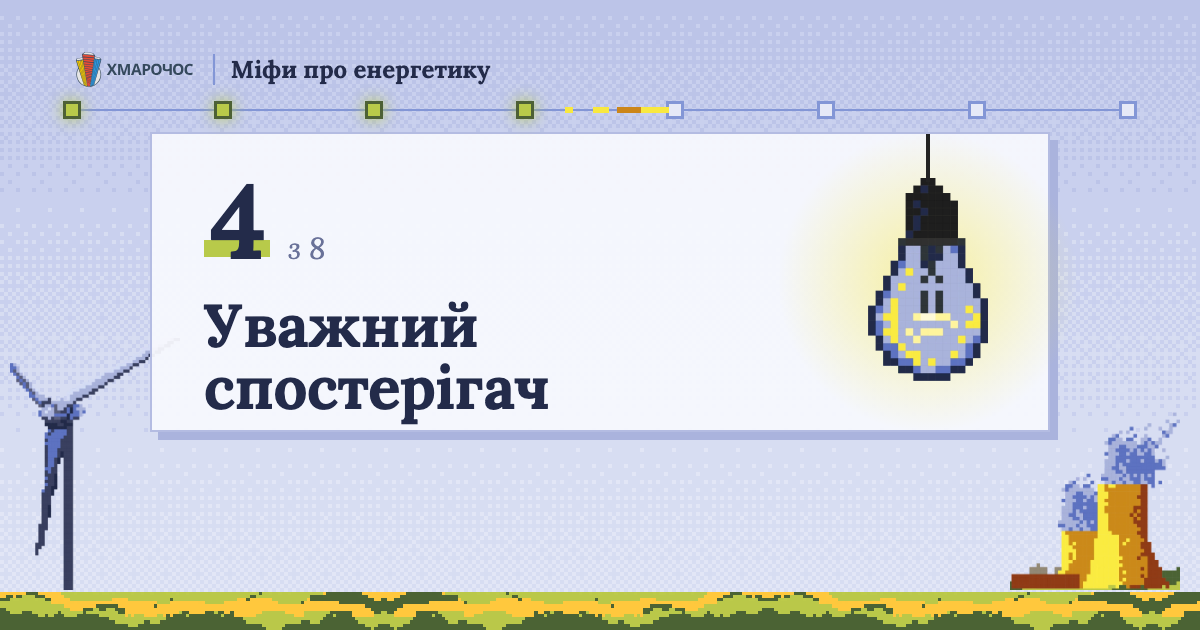
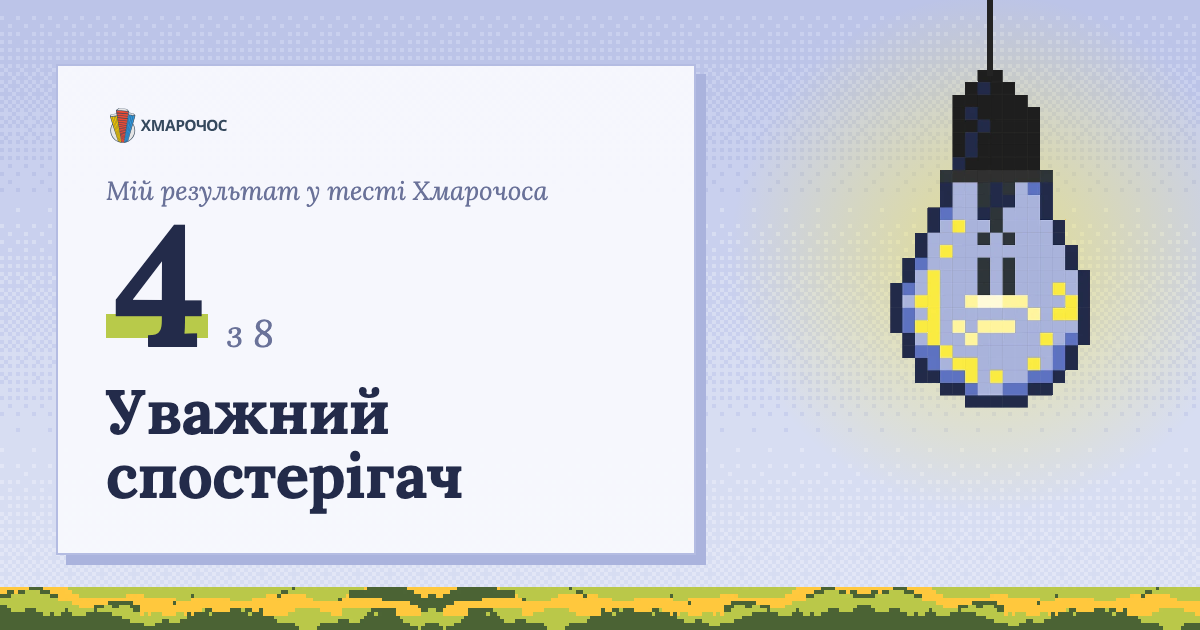
OG: велика обкладинка і великі бали з артом рівня; результат без відліку балів; плавний перехід до результату — мережа вмикається по черзі, плашка проявляється

diff --git a/og-src/og.html b/og-src/og.html
@@ -3,120 +3,99 @@
 <head>
 <meta charset="utf-8">
 <title>OG</title>
-<!-- OG 1200×630 у стилі «Мережа» (кольори ілюстрації). Рендерить scripts/render-og.mjs:
-     og.html → public/og-test.png (назва ліворуч, обкладинка праворуч);
-     og.html?l=<slug> → public/og-<slug>.png (бали, звання, лінія мережі; арт рівня праворуч з ореолом).
-     Арт — у рідній сітці 120×80 з public/art/px, збільшений без розмиття. -->
+<!-- OG 1200×630 у стилі «Мережа». Рендерить scripts/render-og.mjs:
+     og.html → public/og-test.png — велика обкладинка ілюстраторки й плашка з назвою;
+     og.html?s=<0..8> → public/og-s<N>.png — точні бали; ?l=<slug> → діапазон рівня (старі посилання).
+     Принцип: мало елементів і великі — прев'ю показують дрібно. Обкладинка — у рідній
+     сітці 120×80, збільшена рівно в 7 разів, без розмиття. -->
 <style>
-@font-face { font-family: "Open Sans"; src: url("../public/fonts/hm/open-sans-v29-latin_cyrillic-ext-500.woff2") format("woff2"); font-weight: 500; }
 @font-face { font-family: "Open Sans"; src: url("../public/fonts/hm/open-sans-v29-latin_cyrillic-ext-700.woff2") format("woff2"); font-weight: 700; }
 @font-face { font-family: "Lora"; src: url("../public/fonts/hm/lora-v24-latin_cyrillic-ext-700.woff2") format("woff2"); font-weight: 700; }
 @font-face { font-family: "Lora"; src: url("../public/fonts/hm/lora-v24-latin_cyrillic-ext-italic.woff2") format("woff2"); font-weight: 400; font-style: italic; }
-:root { --bg: #d7ddf2; --bg-2: #e6e9f7; --cloud: #aab3dd; --line: #b4bce2; --line-2: #8396d6; --text: #232b4a; --mute: #6a7299; --blue-d: #4458a8; --amber: #f8e840; --amber-2: #fcc63d; --orange: #cc8619; --night: #232b4a; }
+:root { --bg-2: #e6e9f7; --cloud: #aab3dd; --line: #b4bce2; --line-2: #8396d6; --text: #232b4a; --mute: #6a7299; --amber: #f8e840; --amber-2: #fcc63d; --grass: #b8ca4a; --forest: #4d6135; }
 * { box-sizing: border-box; }
 body { margin: 0; width: 1200px; height: 630px; overflow: hidden; position: relative; color: var(--text); font-family: "Open Sans", sans-serif;
   background: url("../public/art/px/sky.png") repeat-x left top / 32px 800px, #e2e6f6; image-rendering: pixelated; }
-.ground { position: absolute; left: 0; right: 0; bottom: 0; height: 64px; background: url("../public/art/px/hills-day.png") repeat-x left bottom / auto 100%; image-rendering: pixelated; }
-body.night .ground { background-image: url("../public/art/px/hills-night.png"); }
-.head { position: absolute; left: 72px; right: 72px; top: 46px; display: flex; align-items: center; justify-content: space-between; }
-.brand { display: flex; align-items: center; gap: 16px; font: 700 24px "Lora", serif; }
-.brand img { height: 46px; }
-.brand span { padding-left: 16px; border-left: 2px solid var(--line-2); }
-.cap { font-size: 18px; font-weight: 700; letter-spacing: .14em; text-transform: uppercase; color: var(--blue-d); }
-.cap::before { content: ""; display: inline-block; width: 12px; height: 12px; margin-right: 14px; background: var(--amber); box-shadow: 0 0 0 2px var(--orange); vertical-align: 1px; }
 .px { image-rendering: pixelated; display: block; }
+.ground { position: absolute; left: 0; right: 0; bottom: 0; height: 72px; background: url("../public/art/px/hills-day.png") repeat-x left bottom / auto 100%; image-rendering: pixelated; }
+body.night .ground { background-image: url("../public/art/px/hills-night.png"); }
+/* плашка: світла, тонка лінія, жорстка піксельна тінь — як на сайті */
+.card { position: absolute; background: rgba(247,248,253,.97); border: 2px solid var(--line); box-shadow: 10px 10px 0 var(--cloud); }
+.logo { height: 46px; display: block; }
 
-/* старт */
-.start .text { position: absolute; left: 72px; top: 150px; width: 500px; }
-.start h1 { margin: 16px 0 0; font: 700 70px/1.02 "Lora", serif; letter-spacing: -.015em; }
-.cta { display: inline-flex; align-items: center; gap: 22px; margin-top: 34px; height: 78px; padding: 0 32px 6px; background: var(--amber); color: var(--text); font-weight: 700; font-size: 26px; box-shadow: inset 0 0 0 3px var(--text), inset 0 -10px 0 0 var(--amber-2), inset 0 -10px 0 3px var(--text); }
-.plate { position: absolute; }
-.start .plate { right: 72px; top: 126px; width: 540px; }
-.start .plate img { width: 100%; }
+/* ——— старт: обкладинка велика праворуч, плашка з назвою заходить на неї ——— */
+.start .cover { position: absolute; right: 0; bottom: 0; width: 720px; height: 480px; }
+.start .card { left: 48px; top: 80px; width: 470px; padding: 36px 40px 42px; }
+.start h1 { margin: 26px 0 0; font: 700 60px/1.03 "Lora", serif; letter-spacing: -.015em; }
+.cta { display: inline-flex; align-items: center; gap: 22px; margin-top: 30px; height: 76px; padding: 0 30px 6px; background: var(--amber); font-weight: 700; font-size: 27px;
+  box-shadow: inset 0 0 0 3px var(--text), inset 0 -10px 0 0 var(--amber-2), inset 0 -10px 0 3px var(--text); }
 
-/* лінія мережі */
-.grid { position: absolute; left: 72px; right: 72px; top: 100px; height: 20px; }
-.grid::before { content: ""; position: absolute; left: 0; right: 0; top: 9px; height: 2px; background: var(--line-2); }
-.grid i { position: absolute; top: 1px; width: 18px; height: 18px; transform: translateX(-50%); background: var(--bg-2); border: 3px solid var(--line-2); }
-.grid i.on { background: #b8ca4a; border-color: #4d6135; box-shadow: 0 0 16px rgba(184,202,74,.9); }
-.grid .pulse { position: absolute; top: 7px; width: 120px; height: 6px; background: linear-gradient(90deg, transparent 0 16px, var(--amber) 16px 24px, transparent 24px 44px, var(--amber) 44px 60px, transparent 60px 68px, var(--orange) 68px 92px, var(--amber) 92px 120px); }
-
-/* рівень: плашка як на сайті — світла, тонка лінія, піксельна тінь; арт усередині праворуч */
+/* ——— результат: великі бали й звання на плашці, праворуч великий арт рівня ——— */
 .lvl { display: none; }
-.card { position: absolute; left: 150px; right: 150px; top: 132px; height: 300px; background: rgba(247,248,253,.95); border: 2px solid var(--line); box-shadow: 8px 8px 0 var(--cloud); }
-.card .text { position: absolute; left: 52px; top: 40px; width: 560px; }
-.card .art { position: absolute; right: 60px; top: 0; bottom: 0; display: grid; place-items: center; }
-.card .art img { position: relative; image-rendering: auto; }
-.card .art::before { content: ""; position: absolute; left: 50%; top: 50%; width: 300px; height: 300px; transform: translate(-50%, -50%); background: radial-gradient(closest-side, rgba(248,232,64,.5), rgba(248,232,64,0)); }
-.card .art.warm::before { background: radial-gradient(closest-side, rgba(252,150,50,.45), rgba(252,150,50,0)); }
-/* лампочка висить на шнурі від верхнього краю плашки */
-.card .art.hang { place-items: start center; padding-top: 44px; }
-.card .art.hang::after { content: ""; position: absolute; left: 50%; top: 0; width: 4px; height: 48px; transform: translateX(-50%); background: #232323; }
-.mill, .plant { position: absolute; bottom: 40px; image-rendering: auto; }
-.mill { left: 10px; width: 170px; }
-.plant { right: 20px; width: 170px; }
 body.level .start { display: none; }
 body.level .lvl { display: block; }
-
-.score { display: flex; align-items: baseline; gap: 18px; }
-.score b { font: 700 104px/.9 "Lora", serif; color: var(--text); letter-spacing: -.03em; padding: 0 6px; background: linear-gradient(transparent 70%, #b8ca4a 70% 88%, transparent 88%); }
-.score span { font: italic 400 30px "Lora", serif; color: var(--mute); }
-.lvl h1 { margin: 26px 0 0; font: 700 60px/1.04 "Lora", serif; letter-spacing: -.01em; }
-
-
-
-
+.lvl .card { left: 56px; top: 64px; width: 640px; padding: 36px 48px 44px; }
+.lvl .who { margin: 26px 0 0; font: italic 400 26px/1.3 "Lora", serif; color: var(--mute); }
+.score { display: flex; align-items: baseline; gap: 18px; margin-top: 4px; }
+.score b { font: 700 170px/.86 "Lora", serif; letter-spacing: -.04em; padding: 0 8px; background: linear-gradient(transparent 70%, var(--grass) 70% 86%, transparent 86%); }
+.score span { font: italic 400 38px "Lora", serif; color: var(--mute); }
+.lvl h1 { margin: 22px 0 0; font: 700 62px/1.04 "Lora", serif; letter-spacing: -.01em; }
+.art { position: absolute; display: grid; place-items: center; }
+.art img { position: relative; display: block; }
+.art::before { content: ""; position: absolute; left: 50%; top: 50%; width: 520px; height: 520px; transform: translate(-50%, -50%); background: radial-gradient(closest-side, rgba(248,232,64,.55), rgba(248,232,64,0)); }
+.art.warm::before { background: radial-gradient(closest-side, rgba(252,150,50,.5), rgba(252,150,50,0)); }
+/* лампочка висить на шнурі від верхнього краю картинки */
+.art.bulb { right: 110px; top: 0; padding-top: 70px; }
+.art.bulb::after { content: ""; position: absolute; left: 50%; top: 0; width: 6px; height: 76px; transform: translateX(-50%); background: #232323; }
+.art.bulb::before { top: 62%; }
+.art.candle { right: 150px; bottom: 50px; }
+.art.battery { right: 40px; bottom: 120px; }
 </style>
 </head>
 <body>
-  <div class="head"><span class="brand"><img src="../public/hmarochos_logo_new.svg" alt=""><span>Міфи про енергетику</span></span></div>
-
   <div class="start">
-    <div class="text">
+    <img class="px cover" src="../public/art/px/cover.png" alt="">
+    <div class="card">
+      <img class="logo" src="../public/hmarochos_logo_new.svg" alt="">
       <h1>Міфи про українську енергетику</h1>
-      <div class="cta">Пройти тест <svg viewBox="0 0 22 10" width="34" height="16" fill="none" stroke="currentColor" stroke-width="1.6"><path d="M0 5h20M16 1l4 4-4 4"/></svg></div>
+      <div class="cta">Пройти тест <svg viewBox="0 0 9 8" width="26" height="23" shape-rendering="crispEdges"><path d="M5 0h1v1H5zM5 1h2v1H5zM5 2h3v1H5zM0 3h9v2H0zM5 5h3v1H5zM5 6h2v1H5zM5 7h1v1H5z" fill="currentColor"/></svg></div>
     </div>
-    <div class="plate"><img class="px" src="../public/art/px/cover.png" alt=""></div>
   </div>
 
   <div class="lvl">
-    <img class="mill" src="../public/art/windmill.webp" alt="">
-    <img class="plant" src="../public/art/plant.webp" alt="">
+    <div class="ground"></div>
+    <div class="art" id="art"><img id="artImg" alt=""></div>
     <div class="card">
-      <div class="text">
-        <div class="score"><b id="range"></b><span>з 8</span></div>
-        <h1 id="title"></h1>
-      </div>
-      <div class="art" id="plate"><img id="art" alt=""></div>
+      <img class="logo" src="../public/hmarochos_logo_new.svg" alt="">
+      <p class="who">Мій результат у тесті Хмарочоса</p>
+      <div class="score"><b id="score"></b><span>з 8</span></div>
+      <h1 id="title"></h1>
     </div>
   </div>
 
-  <div class="grid" id="grid"></div>
-  <div class="ground"></div>
-
 <script>
   const LEVELS = {
-    hostage: { title: "Заручник інфопростору", range: "0–3", max: 3, art: "candle", w: 100, warm: true },
-    observer: { title: "Уважний спостерігач", range: "4–6", max: 6, art: "bulb-lamp", w: 120 },
-    analyst: { title: "Енергетичний аналітик", range: "7–8", max: 8, art: "battery", w: 260 },
+    hostage: { title: "Заручник інфопростору", range: "0–3", max: 3, art: "candle", w: 170, warm: true },
+    observer: { title: "Уважний спостерігач", range: "4–6", max: 6, art: "bulb", w: 200 },
+    analyst: { title: "Енергетичний аналітик", range: "7–8", max: 8, art: "battery", w: 420 },
   };
-  // ?s=<бали> — точна кількість балів; ?l=<рівень> — діапазон рівня
+  // ?s=<бали> — точна кількість; ?l=<рівень> — діапазон рівня
   const qs = new URLSearchParams(location.search);
   const sc = qs.has("s") ? Number(qs.get("s")) : null;
   const l = sc !== null ? Object.values(LEVELS).find((v) => sc <= v.max) : LEVELS[qs.get("l")];
-  const lit = l ? (sc ?? l.max) : 0;
-  document.getElementById("grid").innerHTML =
-    Array.from({ length: 8 }, (_, i) => `<i class="${i < lit ? "on" : ""}" style="left:${(i / 7) * 100}%"></i>`).join("") +
-    `<span class="pulse" style="left:${l ? Math.min(85, (lit / 7) * 100) - 12 : 30}%"></span>`;
   if (l) {
     document.body.classList.add("level");
+    if (l.warm) document.body.classList.add("night");
     document.getElementById("title").textContent = l.title;
-    document.getElementById("range").textContent = sc !== null ? String(sc) : l.range;
-    if (l.art === "bulb-lamp") document.getElementById("plate").classList.add("hang");
-    const a = document.getElementById("art");
-    a.src = `../public/art/${l.art}.webp`;
-    a.style.width = l.w + "px";
-    if (l.warm) { document.getElementById("plate").classList.add("warm"); document.body.classList.add("night"); document.querySelectorAll(".mill,.plant").forEach((e) => (e.style.filter = "brightness(.55) saturate(.7)")); }
+    document.getElementById("score").textContent = sc !== null ? String(sc) : l.range;
+    const art = document.getElementById("art");
+    art.classList.add(l.art);
+    if (l.warm) art.classList.add("warm");
+    const img = document.getElementById("artImg");
+    img.src = `../public/art/${l.art === "bulb" ? "bulb-lamp" : l.art}.webp`;
+    img.style.width = l.w + "px";
+  } else {
+    document.querySelector(".lvl").remove();
   }
 </script>
 </body>

diff --git a/app/skins/grid/GridSkin.tsx b/app/skins/grid/GridSkin.tsx
@@ -89,10 +89,11 @@ function Head() {
 }
 
 /** Лінія мережі з восьми підстанцій. history — пройдені твердження; now — поточне. */
-function Grid({ history, now, fresh }: { history: boolean[]; now?: number; fresh?: boolean }) {
+function Grid({ history, now, fresh, boot }: { history: boolean[]; now?: number; fresh?: boolean; boot?: boolean }) {
   const on = history.filter(Boolean).length;
   return (
-    <div className="grid" role="img" aria-label={`Правильних відповідей: ${on} з ${TOTAL}`}>
+    // boot — на результаті мережа «запускається»: відрізки й підстанції вмикаються по черзі зліва направо
+    <div className={`grid${boot ? " boot" : ""}`} role="img" aria-label={`Правильних відповідей: ${on} з ${TOTAL}`}>
       <span className="line" aria-hidden>
         <span className="pulse" />
       </span>
@@ -102,14 +103,14 @@ function Grid({ history, now, fresh }: { history: boolean[]; now?: number; fresh
           <span
             key={`s${i}`}
             className={`seg ${h ? "on" : "miss"}${i === history.length - 1 && fresh ? " fresh" : ""}`}
-            style={{ left: `${((i - 1) / (TOTAL - 1)) * 100}%`, width: `${100 / (TOTAL - 1)}%` }}
+            style={{ left: `${((i - 1) / (TOTAL - 1)) * 100}%`, width: `${100 / (TOTAL - 1)}%`, ["--i" as string]: i }}
             aria-hidden
           />
         ),
       )}
       {Array.from({ length: TOTAL }, (_, i) => {
         const st = i < history.length ? (history[i] ? "on" : "miss") : i === now ? "now" : "";
-        return <i key={i} className={`node ${st}${i === history.length - 1 && fresh ? " fresh" : ""}`} style={{ left: `${(i / (TOTAL - 1)) * 100}%` }} />;
+        return <i key={i} className={`node ${st}${i === history.length - 1 && fresh ? " fresh" : ""}`} style={{ left: `${(i / (TOTAL - 1)) * 100}%`, ["--i" as string]: i }} />;
       })}
     </div>
   );
@@ -347,25 +348,6 @@ function Sheet({ quiz }: { quiz: QuizApi }) {
 
 // ——— результат ———
 
-function CountUp({ to }: { to: number }) {
-  const [n, setN] = useState(0);
-  useEffect(() => {
-    if (window.matchMedia("(prefers-reduced-motion: reduce)").matches || to === 0) {
-      setN(to);
-      return;
-    }
-    const t0 = performance.now();
-    let raf = 0;
-    const step = (now: number) => {
-      const p = Math.min(1, (now - t0) / 900);
-      setN(Math.round(to * (1 - Math.pow(1 - p, 3))));
-      if (p < 1) raf = requestAnimationFrame(step);
-    };
-    raf = requestAnimationFrame(step);
-    return () => cancelAnimationFrame(raf);
-  }, [to]);
-  return <>{n}</>;
-}
 
 function ResultBody({ level, history, fixed, onRestart }: { level: Level; history?: boolean[]; fixed?: number; onRestart?: () => void }) {
   const score = history ? history.filter(Boolean).length : fixed;
@@ -375,7 +357,7 @@ function ResultBody({ level, history, fixed, onRestart }: { level: Level; histor
     <main className="nm result">
       <div className="col">
         <Head />
-        <Grid history={shown} />
+        <Grid history={shown} boot />
         <div className="rgrid">
           <div className="rmain">
             <div className="rtop">
@@ -383,9 +365,7 @@ function ResultBody({ level, history, fixed, onRestart }: { level: Level; histor
             {!history && <p className="shared">{`${UI.sharedResult} «${intro.title}»`}</p>}
             {score !== undefined ? (
               <p className="score">
-                <b>
-                  <CountUp to={score} />
-                </b>
+                <b>{score}</b>
                 <span>
                   {UI.of(TOTAL)} {UI.live}
                 </span>

diff --git a/app/skins/grid/grid.css b/app/skins/grid/grid.css
@@ -1499,3 +1499,49 @@ html:has(.nm) {
   font: italic 400 16px/1.4 "Lora", serif;
   color: var(--mute);
 }
+
+/* ——— перехід до результату ———
+   мережа запускається: підстанції й відрізки між ними вмикаються по черзі зліва направо
+   (крок 90 мс), а плашка результату тим часом м'яко проявляється й ледь збільшується */
+
+.nm .grid.boot .seg {
+  animation: nmFlow 0.18s var(--ease-run) calc(var(--i) * 90ms - 90ms) both;
+}
+
+.nm .grid.boot .seg.miss {
+  animation: nmBootDim 0.2s ease-out calc(var(--i) * 90ms) both;
+}
+
+.nm .grid.boot .node.on,
+.nm .grid.boot .node.miss {
+  animation: nmBootNode 0.4s ease-out calc(var(--i) * 90ms) both;
+}
+
+@keyframes nmBootNode {
+  0% {
+    transform: translateX(-50%) scale(0.5);
+  }
+  50% {
+    transform: translateX(-50%) scale(1.35);
+  }
+  100% {
+    transform: translateX(-50%) scale(1);
+  }
+}
+
+@keyframes nmBootDim {
+  from {
+    opacity: 0;
+  }
+}
+
+.nm.result .rmain {
+  animation: nmCardIn 0.6s cubic-bezier(0.2, 0.7, 0.2, 1) 0.1s both;
+}
+
+@keyframes nmCardIn {
+  from {
+    opacity: 0;
+    transform: scale(0.985);
+  }
+}

diff --git a/app/share.ts b/app/share.ts
@@ -19,4 +19,4 @@ export function scoreShareUrl(score: number): string {
 }
 
 /** Версія OG-картинок: міняємо, коли картинки перемальовано, щоб соцмережі взяли нові. */
-export const OG_VERSION = "8";
+export const OG_VERSION = "9";
